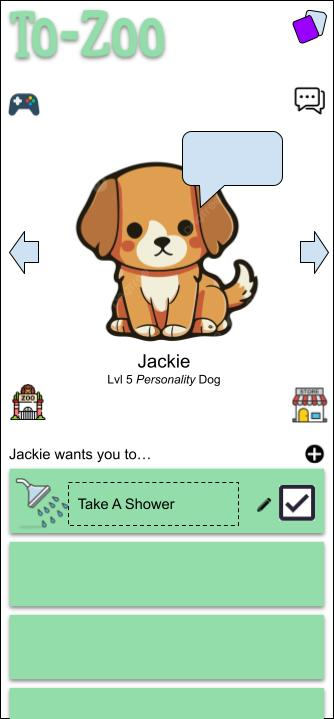
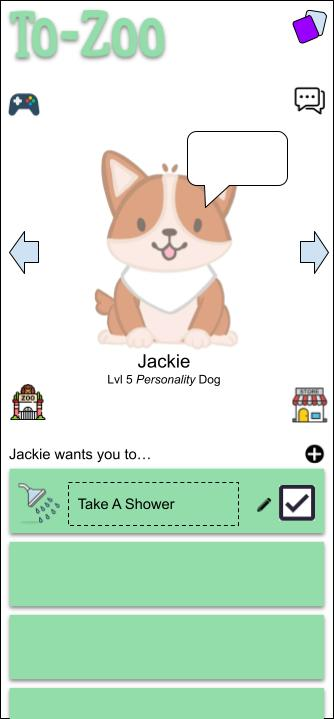
6/4
Created local repository with Github desktop. Worked on html and css

Changed region(s): [[0.2096, 0.1836, 0.8683, 0.4896], [0.0599, 0.6426, 0.2096, 0.7344]]

diff --git a/Styles/home.css b/Styles/home.css
@@ -9,29 +9,43 @@ header {
     min-height: 10px;
 }
 
+header h1 {
+    font-family: "Poetsen One", sans-serif;
+    color: #92ddaa;
+    text-shadow: 2px 2px 2px #0008;
+}
+
 #petArea {
     position: relative;
     width: 100%;
-    min-height: 10px;
-    height: 100vw; /*Change later*/
+    height: clamp(10px, 100vw, 60vh);
+    display: flex;
+    justify-content: center;
+    align-items: center;
 }
 
-#petArea .pet {
-    position: absolute;
-    top: 50%;
-    left: 50%;
-    transform: translate(-50%, -50%);
+#petArea .petContainer {
     width: 70%;
+    text-align: center;
 }
 
-#petArea .shadow {
+.petContainer .pet {
+    width: 100%;
+    max-width: 42vh; /*Will probably need to refine later*/
+}
+
+.alignShadow {
+    position: relative;
+}
+
+.shadow {
     position: absolute;
-    top: 60%;
-    left: 50%;
-    transform: translate(-50%, -50%);
-    width: 70%;
-    z-index: -1;
+    bottom: -1%;
+    left: 0;
+    width: 100%;
     opacity: 0.75;
+    z-index: -1; 
+    scale: 1.2;
 }
 
 #petArea .icon { 
@@ -88,7 +102,23 @@ header {
     background-color: #92ddaa;
     width: 100%;
     min-height: 30px; 
-    -webkit-box-shadow: 1px 7px 18px 0px rgba(0,0,0,0.54);
-    -moz-box-shadow: 1px 7px 18px 0px rgba(0,0,0,0.54);
-    box-shadow: 1px 7px 18px 0px rgba(0,0,0,0.54);
+    -webkit-box-shadow: 1px 7px 18px 0px #0008;
+    -moz-box-shadow: 1px 7px 18px 0px #0008;
+    box-shadow: 1px 7px 18px 0px #0008;
+}
+
+/* -------------/
+* TABLET STYLES *
+/------------- */
+
+@media only screen and (min-width: 768px) {
+    
+}
+
+/* -------------/
+*   PC STYLES   *
+/------------- */
+
+@media only screen and (min-width: 992px) {
+
 }

diff --git a/index.html b/index.html
@@ -6,18 +6,20 @@
     <title>To-Zoo: Your Virtual Pet To-Do List</title>
 
     <link rel="stylesheet" href="Styles/home.css">
+
+    <!--Fonts-->
+    <link rel="preconnect" href="https://fonts.googleapis.com">
+    <link rel="preconnect" href="https://fonts.gstatic.com" crossorigin>
+    <link href="https://fonts.googleapis.com/css2?family=Poetsen+One&display=swap" rel="stylesheet">
+
 </head>
 <body>
         
     <header>
-        <h1>To-Zoo</h1> <!--Replace with logo image later-->
+        <h1>To-Zoo</h1>
     </header>
 
     <div id="petArea">
-
-        <img class="pet" src="corgi.png">
-
-        <img class="shadow" src="https://www.transparentpng.com/download/shadow/iuqEeA-shadow-png-pic-controlled-drugs-cabinets-from-pharmacy.png">
 
         <div class="icon">
             <img src="https://cdn-icons-png.flaticon.com/512/5930/5930147.png">
@@ -38,6 +40,22 @@
             <img src="https://cdn-icons-png.freepik.com/512/8771/8771926.png">
             <!-- <p>Shop</p> -->
         </div>
+
+
+        <!--Pets-->
+        <div class="petContainer">
+            <div class="alignShadow">
+                <img class="pet" src="corgi.png">
+                <img class="shadow" src="shadow.png">
+            </div>
+
+            <p class="nametag">Jackie</p>
+            <p class="description">
+                Level <span>1</span>
+                <span>Dog</span>
+            </p>
+        </div>
+
         
     </div>
 
